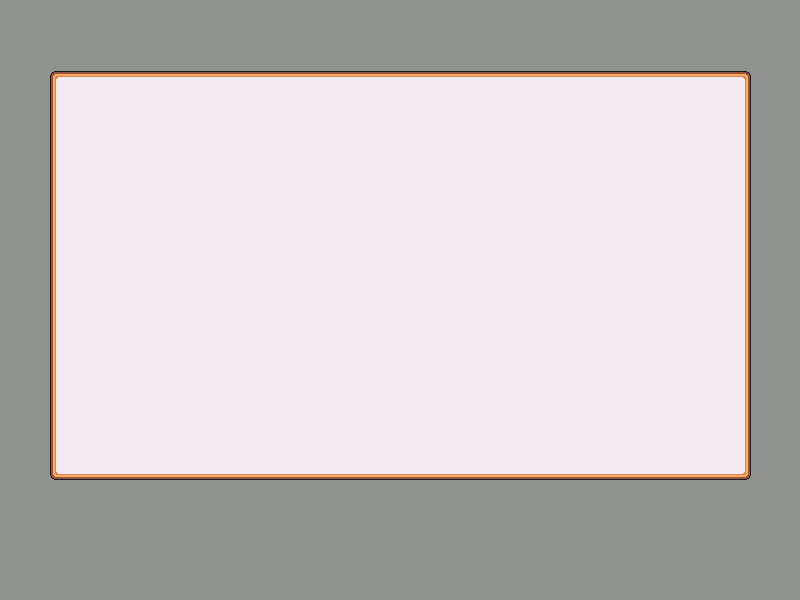
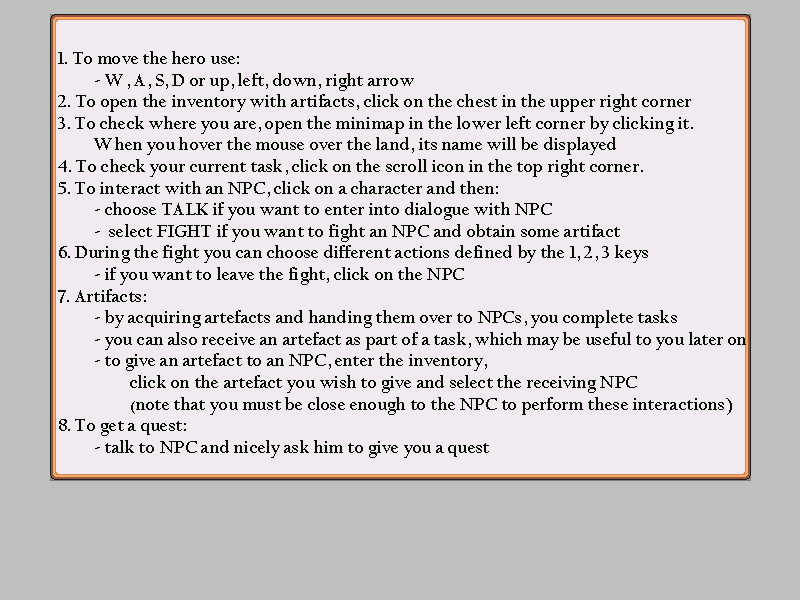
Improve "How to play" page from menu & add cleaned descriptions file & add file for descriptions modifications & add background for choosing character

diff --git a/game/menu.py b/game/menu.py
@@ -117,22 +117,6 @@ def how_to_play():
         pygame.draw.rect(screen, BLACK, button_back, 0, 3)
         screen.blit(GUI_IMAGES['back_to'], (560, 520))
 
-        draw_text_on_menu("1. To move the hero use:", 70, 100, 15, BLACK, screen)
-        draw_text_on_menu("- W, A, S, D or up, left, down, right arrow", 70, 125, 15, BLACK, screen)
-        draw_text_on_menu("2. To open the inventory with artifacts, click on the chest in the upper right corner", 70, 150, 15, BLACK, screen)
-        draw_text_on_menu("3. To check where you are, open the minimap in the lower left corner by clicking it.", 70, 175, 15, BLACK, screen)
-        draw_text_on_menu(" When you hover the mouse over the land, its name will be displayed", 70, 200, 15, BLACK, screen)
-        draw_text_on_menu("4. To check your current task, click on the scroll icon in the top right corner.", 70, 225, 15, BLACK, screen)
-        draw_text_on_menu("5. To interact with an NPC, click on a character and then:", 70, 250, 15, BLACK, screen)
-        draw_text_on_menu("- choose TALK if you want to enter into dialogue with NPC", 70, 275, 15, BLACK, screen)
-        draw_text_on_menu("- select FIGHT if you want to fight an NPC and obtain some artifact", 70, 300, 15, BLACK, screen)
-        draw_text_on_menu("6. Artifacts:", 70, 325, 15, BLACK, screen)
-        draw_text_on_menu("- by acquiring artefacts and handing them over to NPCs, you complete tasks", 70, 350, 15, BLACK, screen)
-        draw_text_on_menu("- you can also receive an artefact as part of a task, which may be useful to you later on", 70, 375, 15, BLACK, screen)
-        draw_text_on_menu("- to give an artefact to an NPC, enter the inventory,", 70, 400, 15, BLACK, screen)
-        draw_text_on_menu(" click on the artefact you wish to give and select the receiving NPC ", 70, 425, 15, BLACK, screen)
-        draw_text_on_menu(" (note that you must be close enough to the NPC to perform these interactions)", 70, 450, 15, BLACK, screen)
-
         # Getting the state of mouse buttons - pressed or not
         left, middle, right = pygame.mouse.get_pressed()
         # Position of the mouse

diff --git a/game/map/map_support.py b/game/map/map_support.py
@@ -12,7 +12,7 @@ def create_map(all_sprites_group, collision_sprites, npc_boundaries, sprites_to_
     }
 
     # for testing
-    bound = pygame.image.load("../resources/graphics/tilemap/npc_blocker.png")
+    # bound = pygame.image.load("../resources/graphics/tilemap/npc_blocker.png")
 
     for style, layout in layouts.items():
         for row_index, row in enumerate(layout):
@@ -25,4 +25,4 @@ def create_map(all_sprites_group, collision_sprites, npc_boundaries, sprites_to_
                         Tile((x, y), [sprites_to_move_opposite], [collision_sprites], 'invisible')
 
                     if style == 'boundary_npc':
-                        Tile((x, y), [sprites_to_move_opposite], [all_sprites_group, npc_boundaries], 'invisible', bound)
+                        Tile((x, y), [sprites_to_move_opposite], [npc_boundaries], 'invisible')

diff --git a/game/settings.py b/game/settings.py
@@ -124,7 +124,6 @@ GUI_IMAGES = {
     'selection': pygame.image.load(os.path.join(path, "resources/GUI", "CharacterSelection.png")),
     'swords':  pygame.image.load(os.path.join(path, "resources/GUI", "swords.png")),
     'map_icon': pygame.image.load(os.path.join(path, "resources/GUI", "mapIcon.png"))
-
 }
 
 MAP_IMAGES = {
